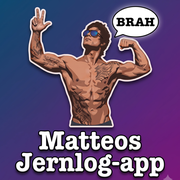
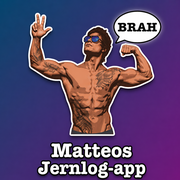
app ikon ret + kommentar update

diff --git a/index.html b/index.html
@@ -41,10 +41,14 @@
 
   /* Bundnavigation — almindeligt element nederst i flex-kolonnen, ikke "fixed".
      max(...,12px) sikrer et minimum af baggrund under ikonerne selv hvis env() skulle give 0. */
-  .bottom-nav{flex:0 0 auto;background:var(--bg-elevated);border-top:1px solid var(--border);display:flex;padding-bottom:max(env(safe-area-inset-bottom),12px);}
-  .bn-item{flex:1;background:none;border:none;color:var(--text-dim);display:flex;flex-direction:column;align-items:center;justify-content:center;gap:2px;padding:8px 2px 10px;font-family:inherit;}
-  .bn-ic{font-size:20px;line-height:1;}
-  .bn-label{font-size:10px;font-weight:700;white-space:nowrap;}
+  .bottom-nav{flex:0 0 auto;background:var(--bg-elevated);border-top:1px solid var(--border);display:flex;padding-bottom:max(env(safe-area-inset-bottom),8px);}
+  /* Knap-rækken er gjort højere (mere padding + større ikon/tekst) end før, så selve knapperne
+     fylder mere af det nederste område — iOS reserverer stadig en lille strimmel til
+     "swipe hjem"-bevægelsen (der kan ikke sidde knapper der), men jo mere plads knapperne selv
+     fylder, jo mindre af skærmen ser ud som "tomt" rum nedenunder. */
+  .bn-item{flex:1;background:none;border:none;color:var(--text-dim);display:flex;flex-direction:column;align-items:center;justify-content:center;gap:3px;padding:14px 2px 18px;font-family:inherit;}
+  .bn-ic{font-size:25px;line-height:1;}
+  .bn-label{font-size:11px;font-weight:700;white-space:nowrap;}
   .bn-item.active{color:var(--yellow);}
   .bn-item:active{background:var(--bg-card);}
   button, input, select{font-family:inherit;}
@@ -181,9 +185,11 @@
   .feed-ex-line:last-child{border-bottom:none;}
   .feed-ex-name{font-weight:700;font-size:14px;}
   .feed-ex-sets{color:var(--text-dim);font-size:13px;text-align:right;flex-shrink:0;max-width:55%;}
+  .feed-comments-label{font-size:12px;font-weight:800;color:var(--text-dim);text-transform:uppercase;letter-spacing:0.4px;margin-bottom:6px;}
   .comment-line{display:flex;gap:8px;padding:7px 0;font-size:14px;align-items:baseline;}
   .comment-author{font-weight:800;color:var(--yellow);flex-shrink:0;}
-  .comment-body{word-break:break-word;}
+  .comment-body{word-break:break-word;flex:1;}
+  .comment-date{color:var(--text-dim);font-size:11px;flex-shrink:0;margin-left:auto;white-space:nowrap;}
   .comment-input-row{display:flex;gap:8px;margin-top:10px;}
   .comment-input-row input{flex:1;padding:11px 14px;font-size:15px;}
   .comment-send{background:var(--yellow);color:#141400;border:none;border-radius:12px;font-weight:800;font-size:14px;padding:0 16px;}
@@ -328,6 +334,13 @@ function fmtClock(ms){
   var d = new Date(ms);
   function p(n){ return (n<10?"0":"")+n; }
   return p(d.getHours())+":"+p(d.getMinutes());
+}
+function fmtCommentDate(iso){
+  if(!iso) return "";
+  var d = new Date(iso);
+  if(isNaN(d.getTime())) return "";
+  var dateOnly = d.getFullYear()+"-"+String(d.getMonth()+1).padStart(2,"0")+"-"+String(d.getDate()).padStart(2,"0");
+  return fmtDateDisplay(dateOnly);
 }
 function parseWeight(str){
   if(str===null||str===undefined||str==="") return null;
@@ -2536,10 +2549,11 @@ function renderFeed(){
 
       /* kommentarer — altid synlige, uafhængigt af "se detaljer" */
       html += '<div class="feed-comments" style="margin-top:10px;border-top:1px solid var(--border);padding-top:8px;">';
+      html += '<div class="feed-comments-label">💬 Kommentarer</div>';
       if(comments.length){
         html += '<div style="margin-bottom:4px;">';
         comments.forEach(function(c){
-          html += '<div class="comment-line"><span class="comment-author">'+escapeHtml(nameById[c.author]||"ukendt")+'</span><span class="comment-body">'+escapeHtml(c.body)+'</span></div>';
+          html += '<div class="comment-line"><span class="comment-author">'+escapeHtml(nameById[c.author]||"ukendt")+'</span><span class="comment-body">'+escapeHtml(c.body)+'</span><span class="comment-date">'+escapeHtml(fmtCommentDate(c.created_at))+'</span></div>';
         });
         html += '</div>';
       }

diff --git a/PROGRESS.md b/PROGRESS.md
@@ -2,6 +2,16 @@
 
 Sidst opdateret: 2026-07-15
 
+## Opdatering 2026-07-15 (7. runde — nyt ikon, bundnav-plads, kommentar-forbedringer)
+1. **Nyt app-ikon** — lavet fra Matteos nyeste ChatGPT-genererede billede (samme figur/stil, men tekst der fylder bredden bedre og næsten intet tomrum i bunden). Beskåret tæt og kvadratisk, gemt som `icon-180-v1.png` (overskriver den forrige — filnavnet er uændret, så `index.html` skal IKKE opdateres for dette).
+2. **Bundnav-plads** — iOS reserverer en lille strimmel nederst til "swipe hjem"-bevægelsen, hvor der ikke kan sidde trykbare knapper (kan ikke fjernes helt). I stedet er selve knap-rækken gjort højere (mere padding, større ikon/tekst), så knapperne fylder mere af området og den reserverede strimmel virker mindre/mere ubetydelig.
+3. **"Kommentarer"-label i feed** — tilføjet en lille label ("💬 Kommentarer") over kommentarsektionen i hvert opslag, så det er tydeligt hvor kommentarerne starter.
+4. **Dato på kommentarer** — hver kommentar viser nu dato (I dag/I går/dd. mmm) til højre.
+
+Alt testet med jsdom-simulering (ingen JS-fejl, label og dato bekræftet i output). **Ikke testet på en rigtig telefon endnu.**
+
+**Skal uploades til GitHub:** `index.html`, `icon-180-v1.png`, `PROGRESS.md`. `sw.js` skal IKKE med (uændret).
+
 ## Opdatering 2026-07-15 (6. runde — sort bjælke under bundnav, forsøg 2)
 Matteo bekræftede via skærmbillede at der stadig var en tydelig sort stribe under bundnavigationen på hjemmeskærm-appen (efter forrige `position:fixed;inset:0`-rettelse var uploadet og appen geninstalleret). Årsag (mest sandsynlig): `env(safe-area-inset-bottom)` giver i nogle tilfælde ikke ekstra plads korrekt til et element der ligger inde i et `position:fixed;inset:0`-element på iOS hjemmeskærm-apps — så bundnav'ens baggrund nåede ikke helt ned til bunden, og man så html/body's baggrundsfarve (`--bg`, næsten sort) i stedet.
 